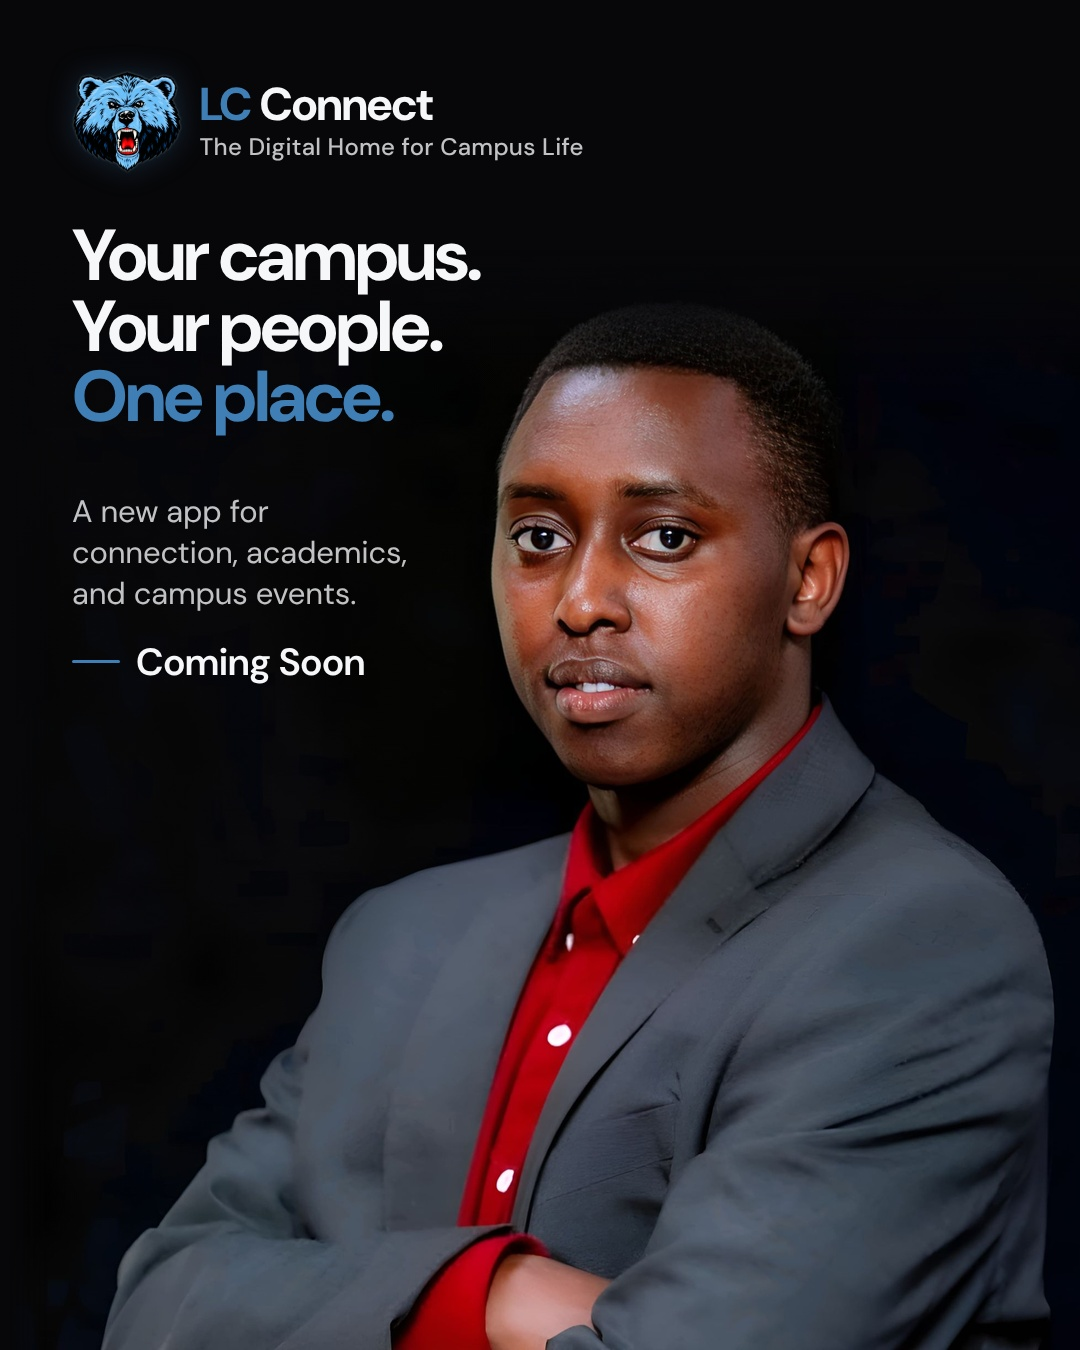
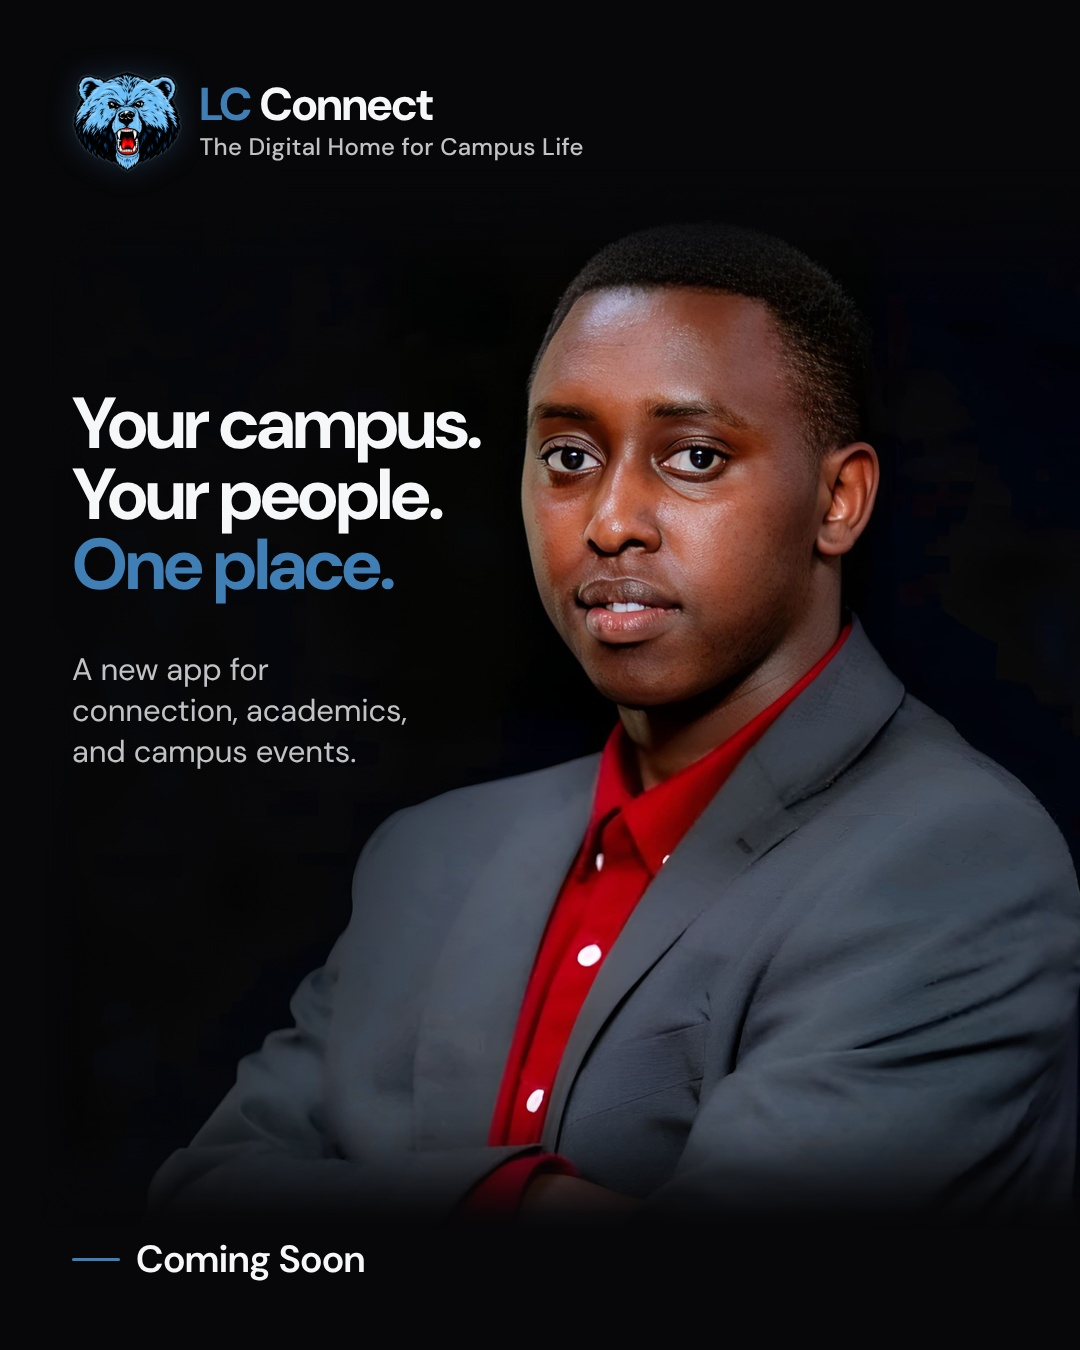
student-11: rearrange — headline level with the face, Coming Soon as a bottom sign-off
Adds layout.statusBottom so Coming Soon can sit alone at the bottom
margin. Other posters render pixel-identical.

Claude-Session: https://claude.ai/code/session_01Q1CBtzs9MBD2ynYwK4E3t9

diff --git a/campaign/templates/poster.js b/campaign/templates/poster.js
@@ -234,6 +234,11 @@ function renderLayout(poster, layout = {}) {
   if (layout.headlineBottom !== undefined) document.getElementById("headline").dataset.anchor = "bottom";
   if (layout.footerAlign) document.querySelector(".footer").dataset.align = layout.footerAlign;
   if (layout.footerTop !== undefined) document.querySelector(".footer").dataset.anchor = "top";
+  if (layout.statusBottom) {
+    const status = document.getElementById("status");
+    status.classList.add("zone", "status-bottom");
+    document.getElementById("type").appendChild(status);
+  }
   setVars(poster, {
     "--headline-top": px(layout.headlineTop),
     "--headline-bottom": px(layout.headlineBottom),

diff --git a/campaign/styles/phase1-poster.css b/campaign/styles/phase1-poster.css
@@ -177,6 +177,8 @@ html, body { background: #000; }
 }
 
 /* Layer 8: launch status — a rule-and-label signature, part of the type system rather than a badge */
+/* layout.statusBottom: Coming Soon leaves the footer block and signs off alone at the bottom margin. */
+.status.status-bottom { bottom: 0; }
 .status {
   display: flex;
   align-items: center;

diff --git a/campaign/README.md b/campaign/README.md
@@ -65,6 +65,7 @@ To preview while tweaking, serve the folder (`npx http-server .`) and open
 | `layout.headlineBottom` | Anchor the headline to the bottom of the frame instead (px from the bottom margin; negative lets descenders sit in the margin). For wide/group shots with space only below the subjects. |
 | `layout.footerAlign` | `right` puts the product line + Coming Soon in a column opposite the headline. |
 | `layout.footerTop` | Anchor the product line + Coming Soon to the top band instead (px below the top margin) — for hero shots where the subject fills the lower frame and all type sits above them in two columns. |
+| `layout.statusBottom` | `true` takes Coming Soon out of the footer block and sets it alone at the bottom margin as a sign-off (the product line stays where the footer is). |
 | `layout.tone` | Optional CSS background for the tone layer (e.g. a soft gradient); off by default. |
 
 For group photos (people across the whole width) don't shift anyone aside: fill the width,
@@ -158,11 +159,12 @@ Copy, colours, type and the logo treatment are deliberately **not** per-student:
   two-column header above her (lockup + headline left, product line + Coming Soon right, via
   `layout.footerTop`). The off-white sweep is continued at the sides with `photo.extend` in `edges`
   mode, so nothing of her bleeds into the backdrop.
-- **student-11** (portrait, grey blazer and red shirt, dark studio): the classic dark layout. Scaled
-  0.55 and set right so the face is large (~355px); the crossed arms run into the lower-left, so
-  the product line + Coming Soon stack under the headline in the left column (`layout.footerTop`)
-  instead of the bottom. A soft radial `layout.tone` evens out the source's blocky dark backdrop
-  behind the type; the subject is untouched.
+- **student-11** (portrait, grey blazer and red shirt, dark studio): the classic dark layout, read
+  top to bottom — lockup at the top, headline in the middle level with his eyes (≥40px from his
+  face), the product line under it, and Coming Soon alone at the bottom (`layout.statusBottom`). The
+  photo sits right at 0.55 and its lower edge (below the crossed arms) dissolves into the backdrop to
+  give the sign-off clean ground. A soft radial `layout.tone` evens out the source's blocky dark
+  backdrop behind the type; the subject is untouched.
 - **Coming Soon** is a rule-and-label signature in the type system rather than a badge, so it reads
   as part of the campaign rather than a sticker.
 - **Mobile.** Smallest text is 24px at 1080 wide (~9px on a phone feed); body copy is 31px and the
